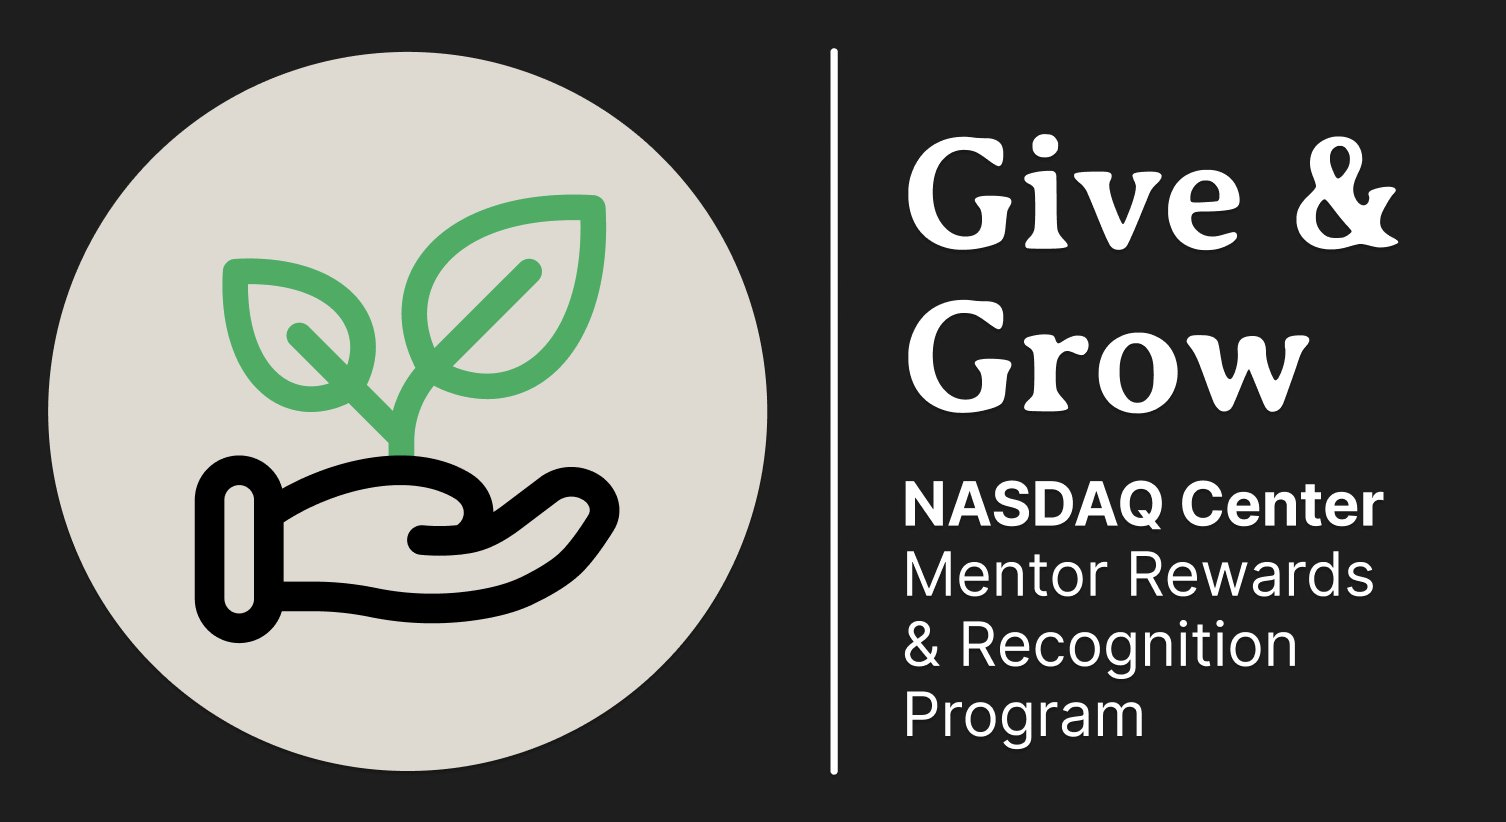
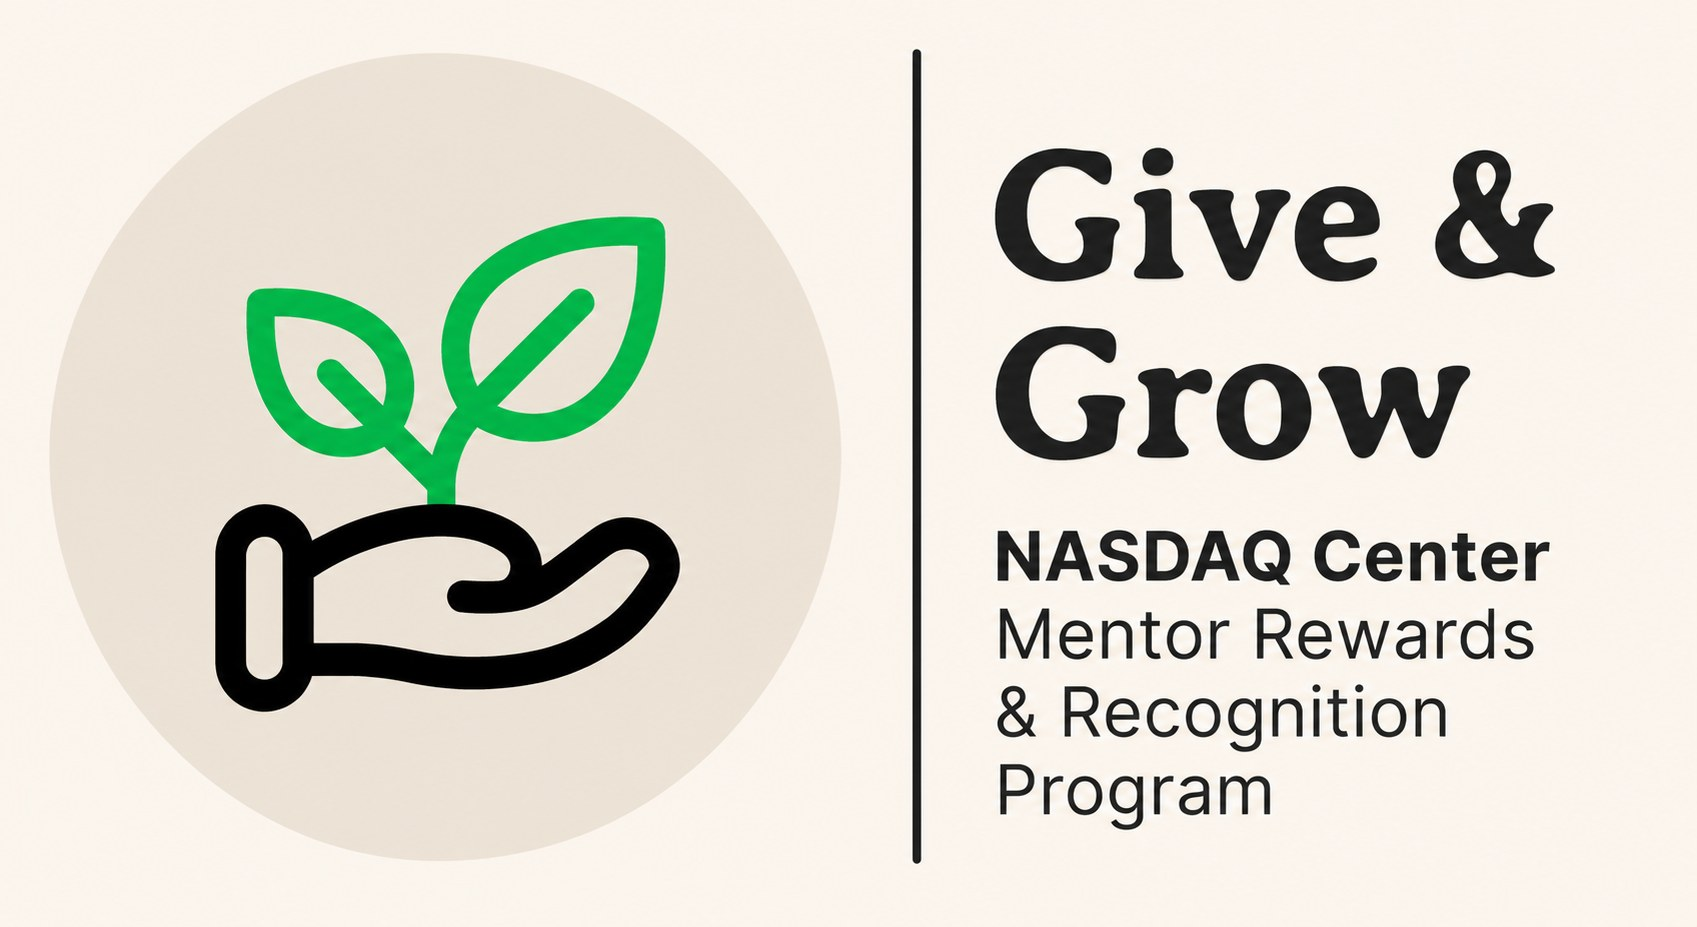
Add Moccasins photos and frameworks; light Give & Grow hero
The LARP hero, tab thumbnail and two field photos are in, the Venn
diagram and needs hierarchy are re-centered and placed, and the empty
whiteboard slots are gone. Give & Grow uses the light hero on a matching
background.

Claude-Session: https://claude.ai/code/session_01EsvdcC4773t6ynEs3Hzkhi

diff --git a/index.html b/index.html
@@ -8,7 +8,7 @@
 <link rel="preconnect" href="https://fonts.googleapis.com">
 <link rel="preconnect" href="https://fonts.gstatic.com" crossorigin>
 <link rel="stylesheet" href="https://fonts.googleapis.com/css2?family=Google+Sans:wght@400;500;600&display=swap">
-<link rel="stylesheet" href="styles.css?v=202611171844">
+<link rel="stylesheet" href="styles.css?v=202611192158">
 </head>
 <body>
 <aside class="index">
@@ -367,9 +367,9 @@
     <div class="body">
       <h3>We spoke with players, and we played alongside them.</h3>
       <p>We had the chance to both talk and LARP with these players and more. From our time with them, we distilled two key findings.</p>
-      <div class="ph-row">
-        <figure class="ph">To add: field photo</figure>
-        <figure class="ph">To add: field photo</figure>
+      <div class="fig-row even">
+        <figure class="fig"><img src="images/larp/fieldwork.jpg" alt="Players in purple pinnies gathering with foam swords on a park field" loading="lazy"><figcaption>Out in the field at a weekly LARP session.</figcaption></figure>
+        <figure class="fig"><img src="images/larp/emma-and-dylan.jpg" alt="Emma and Dylan in purple pinnies holding foam weapons" loading="lazy"><figcaption>Emma and me, geared up to play.</figcaption></figure>
       </div>
     </div>
   </section>
@@ -405,7 +405,7 @@
         <li>In a new game or interaction, rules serve as the guardrails for what is right and wrong.</li>
       </ul>
       <p>These synthesized into our insight. This is the structure that Chris builds, that Rowan and Toby grew up in, and now pass on.</p>
-      <figure class="ph tall">To add: double-layered Venn diagram</figure>
+      <figure class="fig framework"><a href="images/larp/double-venn.jpg" target="_blank" rel="noopener"><img src="images/larp/double-venn.jpg" alt="Double-layered Venn diagram with the two findings' whys overlapping on the insight at the center" loading="lazy"></a><figcaption>Double-layered Venn diagram.</figcaption></figure>
     </div>
   </section>
 
@@ -416,7 +416,7 @@
       <p>We used this insight to inform the needs that we included in our needs hierarchy, tracing the common needs that LARPers share under the insight&mdash;to fit in, to be confident, and to have fun&mdash;down to the activities that we participated in and the qualifying needs that facilitated them.</p>
       <p>One theme that we found in our interviews and observations that became apparent in our needs hierarchy is the tradeoff between combat and roleplay. The need to roleplay primarily fulfills the need to fit in while the need to fight and strategize primarily fulfills the need to have fun.</p>
       <p>However, LARPers shared that roleplaying benefits from smaller, tighter, and more fluid group environments, while combat is most engaging when there are many more people on the field. This indicates that one of our qualifier needs&mdash;the need to introduce more members to the community&mdash;can simultaneously fulfill the need to have fun, but also detract from the need to fit in.</p>
-      <figure class="ph tall">To add: needs hierarchy</figure>
+      <figure class="fig framework"><a href="images/larp/needs-hierarchy.jpg" target="_blank" rel="noopener"><img src="images/larp/needs-hierarchy.jpg" alt="Needs hierarchy linking common, context, activity and qualifier needs" loading="lazy"></a></figure>
     </div>
   </section>
 
@@ -424,14 +424,10 @@
     <h2>Opportunity</h2>
     <div class="body">
       <h3>In essence, there is a need, and a true and crucial opportunity, to shape how LARP continues to grow and scale without erasing the positive social benefits that it provides to its players.</h3>
-      <div class="ph-row">
-        <figure class="ph">To add: whiteboard scans</figure>
-        <figure class="ph">To add: whiteboard scans</figure>
-      </div>
     </div>
   </section>
 </template>
 
-<script src="script.js?v=202611191623"></script>
+<script src="script.js?v=202611192158"></script>
 </body>
 </html>

diff --git a/styles.css b/styles.css
@@ -192,8 +192,13 @@ a { color: inherit; }
 .preview-tile.logo, .hero.logo { background: #fafafa; border-radius: 14px; }
 .preview-tile.logo img, .hero.logo img { object-fit: contain; mix-blend-mode: multiply; }
 /* Heroes that must show whole (a logo panel) sit on their own background color */
-.preview-tile.fit { background: #1e1e1e; }
+.preview-tile.fit { background: #fbf5ed; }
 .preview-tile.fit img { object-fit: contain; }
+.hero.fit img { object-fit: contain; background: #fbf5ed; }
+.fig-row.even img { aspect-ratio: 4 / 3; object-fit: cover; }
+.fig.framework { align-items: center; }
+.fig.framework a { display: block; width: 100%; max-width: 760px; margin: 0 auto; }
+.fig.framework img { background: #fff; }
 .thumb.logo { background: #fff; }
 .thumb.logo img { object-fit: contain; }
 /* Scroll animation */

diff --git a/script.js b/script.js
@@ -28,6 +28,8 @@
       methods: "Interviews, clustering, empathy map, 2x2s, journey map, prototype tests",
       lede: "For new empty nesters, belonging didn't come from meeting more people. It came from having someone to care for.", full: true },
     { id: "larp", h: 152, glyph: "shield", title: "Moccasins: LARP",
+      thumb: "images/larp/thumb.jpg", hero: "images/larp/hero.jpg",
+      heroAlt: "LARP players with foam swords and shields heading across a park field at golden hour",
       client: "Stanford d.school",
       line: "Immersion with a live-action role-play community.",
       tags: ["Immersion", "Observation", "Interviews"],
